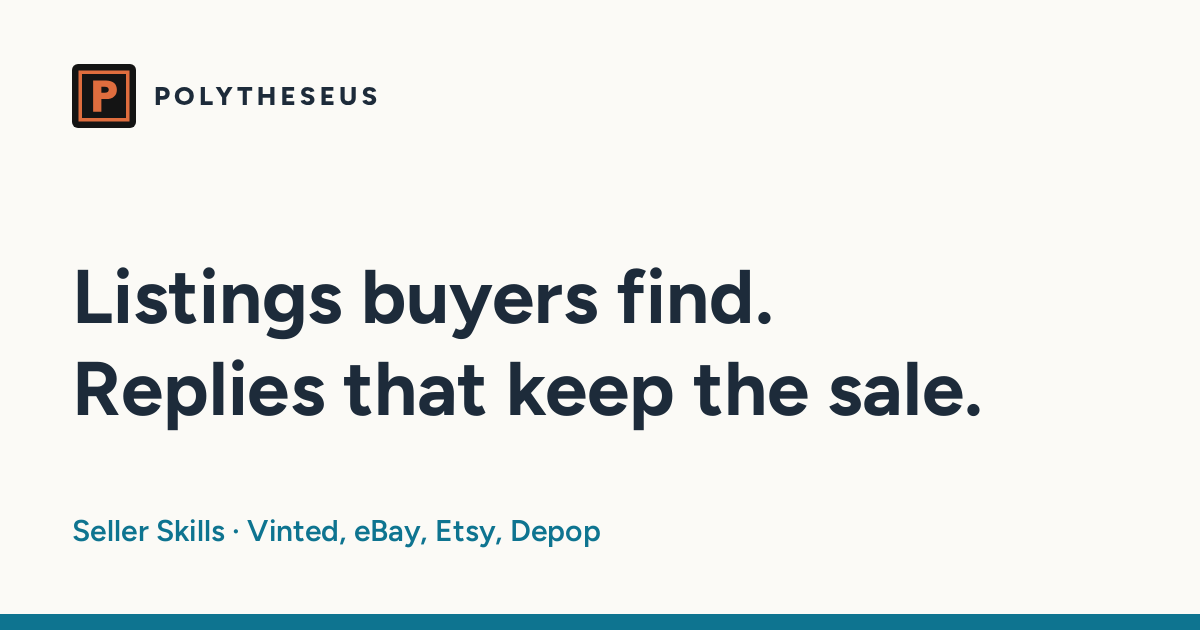
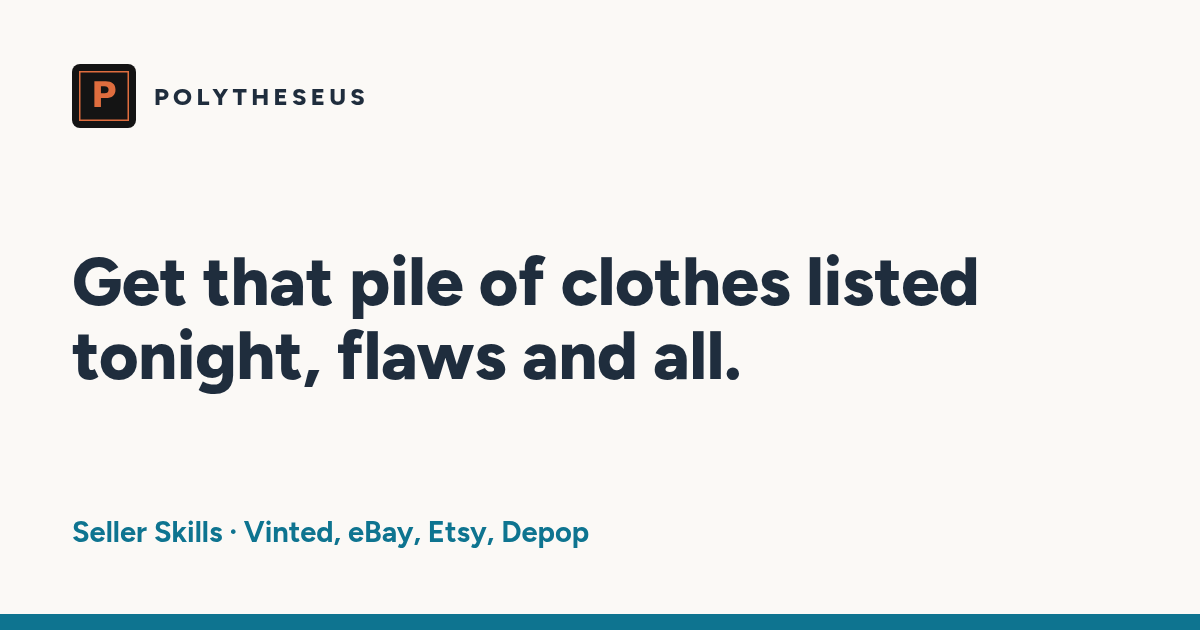
Seller card and share image: get that pile of clothes listed tonight

Changed region(s): [[0.0617, 0.3921, 0.8325, 0.6937], [0.0617, 0.8143, 0.4933, 0.8746], [0.0617, 0.0905, 0.3083, 0.2111]]

diff --git a/index.html b/index.html
@@ -95,8 +95,8 @@
     </a>
     <a class="pack seller" href="/seller-skills/">
       <p class="who">🛍 For Vinted, eBay, Etsy and Depop sellers</p>
-      <h3>Listings buyers find. Replies that keep the sale.</h3>
-      <ul><li>Titles built from what buyers search</li><li>Calm replies to lowballs and claims</li><li>UK tax-year sales records</li></ul>
+      <h3>Get that pile of clothes listed tonight, flaws and all.</h3>
+      <ul><li>Rough notes in, every flaw said up front</li><li>Calm replies to lowballs and claims</li><li>UK tax-year sales records</li></ul>
       <p class="price"><b>Free</b> · Pro £12 · ChatGPT, Gemini, Claude</p>
     </a>
     <a class="pack books" href="/uk-seller-bookkeeping-spreadsheet">
